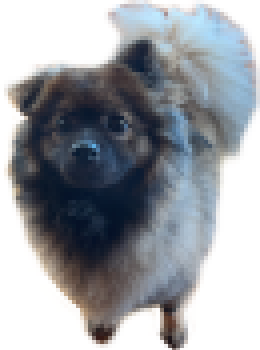
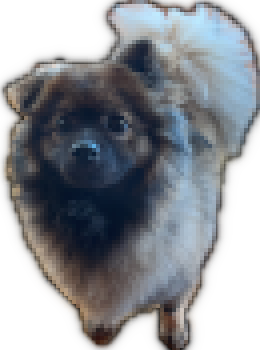
Add background

Changed region(s): [[0.0, 0.0, 1.0, 1.0]]

diff --git a/src/entities/display_manager.py b/src/entities/display_manager.py
@@ -14,7 +14,8 @@ class DisplayManager:
         pygame.display.set_caption("Gacha pet")
 
     def update_view_1(self, user, pet):
-        self.window.fill((0, 0, 0))
+        # self.window.fill((0, 0, 0))
+        self.set_background()
         self.sprite_group.draw(self.window)
         self.display_money(user)
         self.display_hunger(pet)
@@ -74,3 +75,7 @@ class DisplayManager:
     def display_gacha(self, item):
         text = self.font.render(f"You got {item}!", True, (255, 255, 255))
         self.window.blit(text, (150, 100))
+
+    def set_background(self):
+        image = self.image_loader.load_background()
+        self.window.blit(image, (0, 0))

diff --git a/src/entities/image_loader.py b/src/entities/image_loader.py
@@ -14,3 +14,6 @@ class ImageLoader:
             for url in VIEW_2_IMAGES:
                 loaded_images.append(pygame.image.load(url))
         return loaded_images
+
+    def load_background(self):
+        return pygame.image.load("src/media/garden.png")
